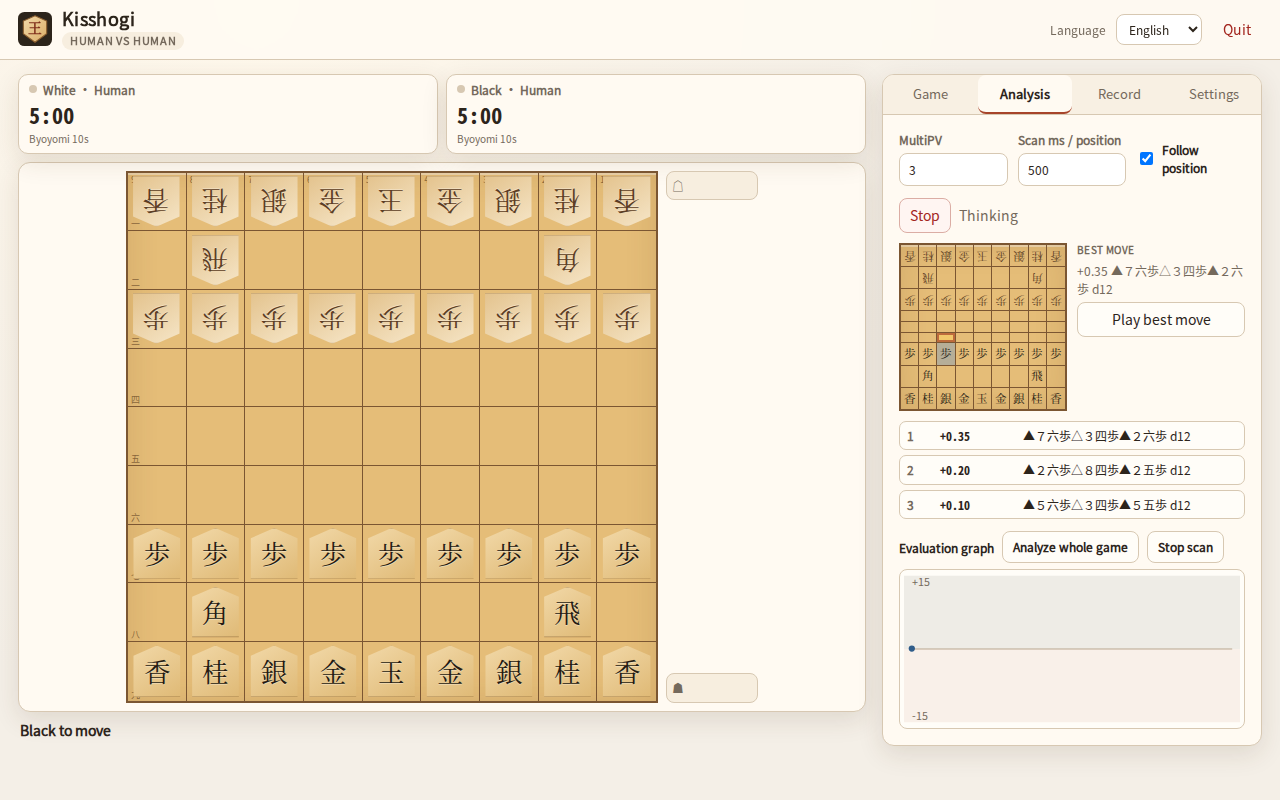
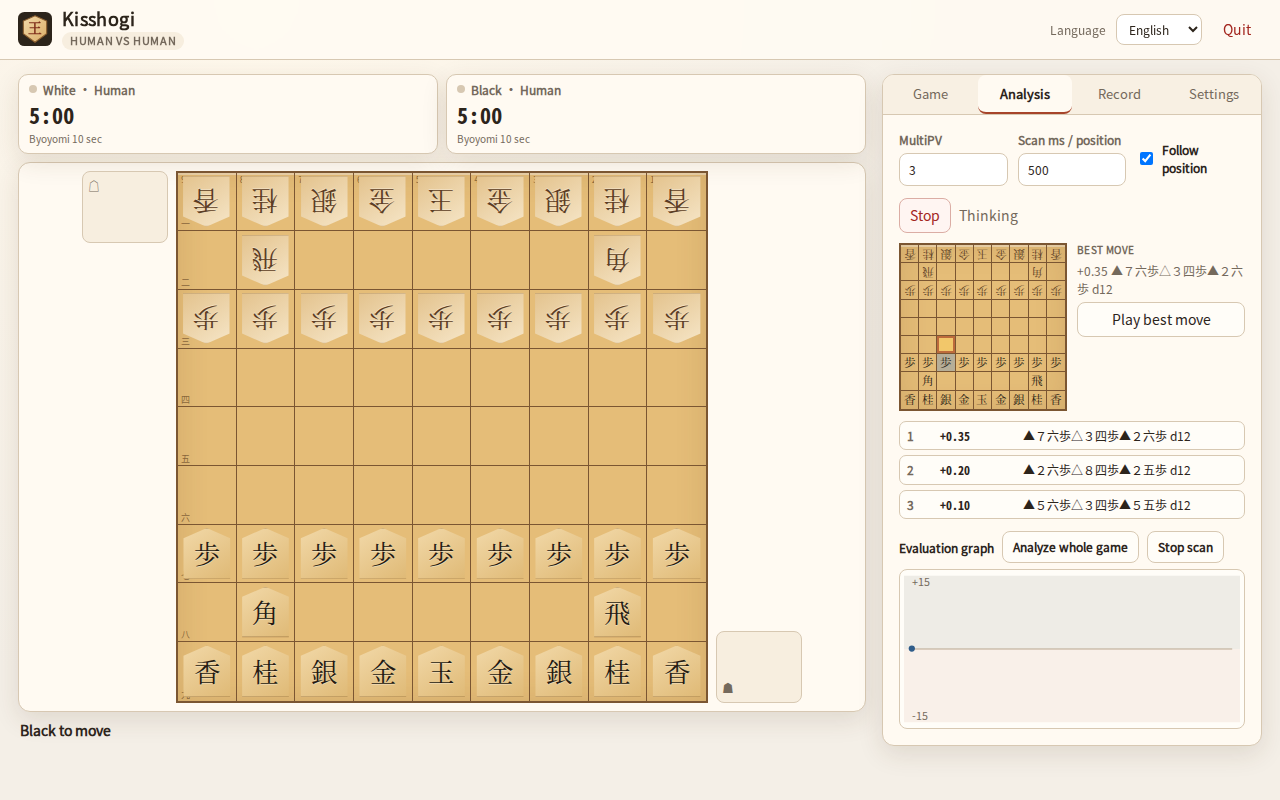
feat: side hand trays, stable mini board and native release bundle

Changed region(s): [[0.0938, 0.1875, 0.5938, 0.9062], [0.6875, 0.3125, 0.8438, 0.5]]

diff --git a/src/kisshogi/web/css/board.css b/src/kisshogi/web/css/board.css
@@ -16,19 +16,18 @@
 
 .board-area { background: var(--panel); border: 1px solid var(--line); border-radius: var(--radius); box-shadow: var(--shadow); padding: 8px; }
 .board-frame {
-  display: flex; align-items: stretch; justify-content: center; gap: 8px;
-  width: min(calc(var(--board-size) + 100px), 100%); margin: 0 auto;
+  display: flex; align-items: flex-start; justify-content: center; gap: 8px;
+  width: min(calc(var(--board-size) + 188px), 100%); margin: 0 auto;
 }
-.hand-stack {
-  flex: 0 0 92px; display: flex; flex-direction: column; justify-content: space-between;
-  gap: 8px; min-width: 0;
-}
-.hand-stack.flipped { flex-direction: column-reverse; }
 .hand-row {
-  display: flex; align-items: flex-start; align-content: flex-start; flex-wrap: wrap; gap: 4px;
+  flex: 0 0 86px; display: flex; align-items: flex-start; align-content: flex-start; flex-wrap: wrap; gap: 4px;
   padding: 5px; background: var(--surface-2); border: 1px solid var(--line); border-radius: 8px;
-  min-height: 0;
+  min-height: 72px; overflow: hidden;
 }
+.hand-white { order: 1; align-self: flex-start; align-content: flex-start; }
+.hand-black { order: 3; align-self: flex-end; align-content: flex-end; }
+.board-frame.flipped .hand-white { order: 3; align-self: flex-end; align-content: flex-end; }
+.board-frame.flipped .hand-black { order: 1; align-self: flex-start; align-content: flex-start; }
 .hand-label { width: 100%; font-size: 12px; color: var(--muted); }
 .hand-piece {
   display: inline-flex; align-items: baseline; gap: 2px; padding: 0 4px; border-radius: 5px;
@@ -42,7 +41,7 @@
 .hand-count { font-family: ui-monospace, monospace; font-size: 9px; color: var(--muted); }
 
 .board {
-  flex: 0 1 auto; width: var(--board-size); max-width: calc(100% - 100px);
+  flex: 0 1 auto; order: 2; width: var(--board-size); max-width: calc(100% - 188px);
   display: grid; grid-template-columns: repeat(9, 1fr); aspect-ratio: 1;
   border: 2px solid var(--board-line); background: var(--board);
   box-shadow: var(--board-inset);

diff --git a/src/kisshogi/web/css/panels.css b/src/kisshogi/web/css/panels.css
@@ -8,11 +8,12 @@
 
 .analysis-board-panel { display: flex; gap: 10px; align-items: flex-start; margin: 10px 0; }
 .mini-board {
-  flex: 0 0 168px; width: 168px; aspect-ratio: 1; display: grid; grid-template-columns: repeat(9, 1fr);
+  flex: 0 0 168px; width: 168px; max-width: 168px; aspect-ratio: 1; display: grid;
+  grid-template-columns: repeat(9, 1fr); grid-template-rows: repeat(9, 1fr);
   border: 2px solid var(--board-line); background: var(--board); box-shadow: var(--board-inset);
 }
 .mini-square {
-  position: relative; display: grid; place-items: center;
+  position: relative; display: grid; place-items: center; min-width: 0; min-height: 0;
   border-right: 1px solid var(--board-line); border-bottom: 1px solid var(--board-line);
 }
 .mini-square:nth-child(9n) { border-right: 0; }
@@ -102,8 +103,8 @@
   .time-head, .time-row { grid-template-columns: 44px 1fr 1fr 1fr 72px; }
   .button-grid { grid-template-columns: 1fr; }
   .board-frame { gap: 4px; }
-  .hand-stack { flex-basis: 70px; }
-  .board { max-width: calc(100% - 78px); }
-  .mini-board { flex-basis: 132px; width: 132px; }
+  .hand-row { flex-basis: 66px; min-height: 60px; }
+  .board { max-width: calc(100% - 140px); }
+  .mini-board { flex-basis: 132px; width: 132px; max-width: 132px; }
   .analysis-board-panel { gap: 8px; }
 }

diff --git a/src/kisshogi/web/js/board-view.js b/src/kisshogi/web/js/board-view.js
@@ -46,11 +46,11 @@ export function squareName(square) {
 }
 
 export class BoardView {
-  constructor({ board, blackHand, whiteHand, handStack, coordinates }, { onSquare, onHand }) {
+  constructor({ board, blackHand, whiteHand, boardFrame, coordinates }, { onSquare, onHand }) {
     this.board = board;
     this.blackHand = blackHand;
     this.whiteHand = whiteHand;
-    this.handStack = handStack;
+    this.boardFrame = boardFrame;
     this.coordinates = coordinates;
     this.onSquare = onSquare;
     this.onHand = onHand;
@@ -135,7 +135,7 @@ export class BoardView {
     this._renderHand(this.blackHand, position.hand(Color.BLACK), Color.BLACK, flip, state);
     this._renderHand(this.whiteHand, position.hand(Color.WHITE), Color.WHITE, flip, state);
     this.board.classList.toggle("flipped", flip);
-    this.handStack?.classList.toggle("flipped", flip);
+    this.boardFrame?.classList.toggle("flipped", flip);
   }
 
   _renderHand(el, hand, color, flip, state) {

diff --git a/src/kisshogi/web/index.html b/src/kisshogi/web/index.html
@@ -43,12 +43,10 @@
       </div>
 
       <div class="board-area">
-        <div class="board-frame">
+        <div id="boardFrame" class="board-frame">
+          <div id="whiteHand" class="hand-row hand-white" aria-label="White hand"></div>
           <div id="board" class="board" role="grid" aria-label="Shogi board"></div>
-          <div id="handStack" class="hand-stack">
-            <div id="whiteHand" class="hand-row hand-white" aria-label="White hand"></div>
-            <div id="blackHand" class="hand-row hand-black" aria-label="Black hand"></div>
-          </div>
+          <div id="blackHand" class="hand-row hand-black" aria-label="Black hand"></div>
         </div>
       </div>
 

diff --git a/src/kisshogi/web/js/main.js b/src/kisshogi/web/js/main.js
@@ -444,7 +444,7 @@ function setupBoard() {
       board: $("#board"),
       blackHand: $("#blackHand"),
       whiteHand: $("#whiteHand"),
-      handStack: $("#handStack"),
+      boardFrame: $("#boardFrame"),
       coordinates: config.ui?.coordinates,
     },
     {

diff --git a/scripts/ui_check.py b/scripts/ui_check.py
@@ -213,10 +213,12 @@ def layout_metrics(page) -> dict:
     return page.evaluate(
         """() => {
             const board = document.querySelector('#board').getBoundingClientRect();
-            const hands = document.querySelector('#handStack').getBoundingClientRect();
+            const white = document.querySelector('#whiteHand').getBoundingClientRect();
+            const black = document.querySelector('#blackHand').getBoundingClientRect();
             return {
-                board: {x: board.x, y: board.y, width: board.width, height: board.height},
-                hands: {x: hands.x, y: hands.y, width: hands.width, height: hands.height},
+                board: {x: board.x, y: board.y, right: board.right, bottom: board.bottom, width: board.width, height: board.height},
+                white: {x: white.x, y: white.y, right: white.right, bottom: white.bottom},
+                black: {x: black.x, y: black.y, right: black.right, bottom: black.bottom},
                 inner: window.innerHeight,
             };
         }"""
@@ -238,8 +240,21 @@ def check_initial_board(browser) -> None:
                 page.wait_for_timeout(120)
                 no_page_scroll(page)
                 metrics = layout_metrics(page)
-                assert metrics["board"]["y"] + metrics["board"]["height"] <= metrics["inner"] + 1, metrics
-                assert metrics["hands"]["x"] >= metrics["board"]["x"] + metrics["board"]["width"] - 1, metrics
+                assert metrics["board"]["bottom"] <= metrics["inner"] + 1, metrics
+                # White (top player) sits on the left, black (bottom player) on
+                # the right: each hand tray is on its own player's right side.
+                assert metrics["white"]["right"] <= metrics["board"]["x"] + 1, metrics
+                assert metrics["black"]["x"] >= metrics["board"]["right"] - 1, metrics
+                assert metrics["white"]["y"] < metrics["black"]["y"], metrics
+
+            page.click("#flipBtn")
+            page.wait_for_timeout(150)
+            flipped = layout_metrics(page)
+            assert flipped["black"]["right"] <= flipped["board"]["x"] + 1, flipped
+            assert flipped["white"]["x"] >= flipped["board"]["right"] - 1, flipped
+            assert flipped["black"]["y"] < flipped["white"]["y"], flipped
+            page.click("#flipBtn")
+            page.wait_for_timeout(150)
 
             clip = page.evaluate("getComputedStyle(document.querySelector('.piece')).clipPath")
             assert clip.count(",") == 4, clip  # five vertices, not a hexagon

diff --git a/packaging/hooks/hook-gi.repository.WebKit2.py b/packaging/hooks/hook-gi.repository.WebKit2.py
@@ -1,0 +1,19 @@
+"""Collect the WebKit2 typelib for pywebview without bundling libwebkit2gtk.
+
+The release binary relies on the system WebKitGTK 4.1 shared library (the same
+dependency a source install needs).  Bundling it produced a 400+ MB onefile and
+would not be portable across distributions.
+"""
+
+from PyInstaller.utils.hooks.gi import GiModuleInfo
+
+
+def hook(hook_api):
+    info = GiModuleInfo("WebKit2", "4.1", hook_api=hook_api)
+    if not info.available:
+        info = GiModuleInfo("WebKit2", "4.0", hook_api=hook_api)
+    if not info.available:
+        return
+    _binaries, datas, hiddenimports = info.collect_typelib_data()
+    hook_api.add_datas(datas)
+    hook_api.add_imports(*hiddenimports)

diff --git a/src/kisshogi/__init__.py b/src/kisshogi/__init__.py
@@ -1,3 +1,3 @@
 """Kisshogi - a small KISS shogi GUI."""
 
-__version__ = "0.1.0"
+__version__ = "0.1.1"

diff --git a/docs/RELEASE.md b/docs/RELEASE.md
@@ -4,7 +4,8 @@
 
 - Target: `foydh/kisshogi`.
 - Default branch: `main`.
-- Tag for the first release: `v0.1.0`.
+- First release: `v0.1.0` (browser fallback).
+- Current release: `v0.1.1` (native window first, browser fallback).
 
 ## Git setup (local only)
 
@@ -22,8 +23,8 @@ git push -u origin main
 ## Release
 
 ```bash
-git tag -a v0.1.0 -m "Kisshogi 0.1.0"
-git push origin v0.1.0
+git tag -a v0.1.1 -m "Kisshogi 0.1.1"
+git push origin v0.1.1
 ```
 
 `.github/workflows/release.yml` verifies the tag, builds wheel/sdist, builds
@@ -32,30 +33,23 @@ publishes a GitHub release.
 
 ## Status
 
-`v0.1.0` was published on 2026-11-08. Assets: wheel, sdist,
-`kisshogi-v0.1.0-linux-x86_64.tar.gz`, `kisshogi-v0.1.0-windows-x86_64.zip`,
-and `SHA256SUMS.txt`. The released Linux binary was downloaded and
-smoke-tested; the Windows zip was inspected (it contains `kisshogi.exe` and
-docs only).
+- `v0.1.0` was published on 2026-11-08 with browser-fallback binaries.
+- `v0.1.1` is the native-first release. The Linux artifact is built on
+  Ubuntu 22.04 with system PyGObject/WebKitGTK and is about 48 MB; the Windows
+  artifact includes pywebview/pythonnet and uses the WebView2 runtime.
 
-## Post-0.1.0
+## Packaging decision (0.1.1)
 
-`main` contains the pause/analysis/theme/layout improvements and the native
-software-OpenGL launcher fix. Bump the version and tag `v0.1.1` when a new
-release is wanted; the release workflow is unchanged.
-
-## Packaging decision (0.1.0)
-
-- The PyInstaller spec excludes pywebview/GI/PIL to keep one cross-platform
-  binary small and portable. Release binaries therefore use the browser
-  fallback; this is the chosen 0.1.0 behavior, not a build accident.
-- A native window is available when installing from source with the `native`
-  extra and the platform dependencies.
-- A separate **native Windows bundle** is the best candidate for the first
-  native release. It needs WebView2 plus pythonnet/clr packaging and must be
-  built and tested on Windows; adding it blind to the current workflow would
-  not be verifiable from this environment.
-- Windows packaging has not been executed in this environment; CI will be the
-  first Windows build.
+- The PyInstaller spec includes pywebview and (on Linux) PyGObject/WebKit2
+  typelib support. Both binaries try the native window first and fall back to
+  the browser if it cannot start.
+- **Linux**: the binary bundles the GI/Gtk runtime pieces but deliberately uses
+  the system `libwebkit2gtk` shared libraries. Bundling WebKitGTK produced a
+  400+ MB onefile tied to one distribution's library set. A source install and
+  the release binary therefore both need PyGObject + WebKitGTK 4.1.
+- The launcher forces software OpenGL on Linux (`LIBGL_ALWAYS_SOFTWARE=1`), so
+  VMs and remote desktops work without a GPU.
+- **Windows**: pywebview + pythonnet are bundled; the WebView2 runtime is
+  required (present on most Windows 10/11 systems).
 - No code signing; Windows SmartScreen may warn.
 - No engine, config, log, or absolute path is included in artifacts.

diff --git a/docs/PROGRESS.md b/docs/PROGRESS.md
@@ -36,8 +36,9 @@ restart, batch games with Ponder, and the Quit flow.
   jishogi adjudication, max moves.
 - Board/hands UI, promotion dialog, clocks, status, coordinates.
 - Pause/resume freezes the clocks and engine turns without discarding the game.
-- Traditional right-side hand trays; five-sided piece shape; board sized to fit
-  the viewport at 1280x800/1366x768/1600x900 without page scrolling.
+- Hand trays on each player's right side (white top-left, black bottom-right);
+  five-sided piece shape; board sized to fit the viewport at
+  1280x800/1366x768/1600x900 without page scrolling.
 - Four themes (classic, dark, green, paper), persisted in the local config.
 - The settings panel shows the local config file path and can copy it.
 - Quit shows a clean stopped overlay instead of a false "server not responding"
@@ -52,10 +53,12 @@ restart, batch games with Ponder, and the Quit flow.
   sections were removed or moved to `docs/`.
 - Batch EvE: color swap, start SFEN cycling, summary, CSV.
 - i18n en/zh-CN/ja; original CSS art; bundled Noto CJK subsets.
-- CI workflows and PyInstaller spec; 8.2 MB Linux onefile smoke-tested.
+- CI workflows and PyInstaller spec.
 - GitHub CI is green on Python 3.10/3.12 for Ubuntu and Windows, JavaScript, and
-  wheel/sdist. `v0.1.0` is published with wheel, sdist, Linux tar.gz, Windows
-  zip, and SHA256SUMS.
+  wheel/sdist. `v0.1.0` was published with browser-fallback binaries.
+- The release spec now bundles pywebview and prefers the native window. The
+  Linux onefile is ~48 MB, uses the system WebKitGTK shared libraries, and was
+  built and launched natively here; the browser remains the fallback.
 - Screenshots in `docs/`.
 - `window.__kisshogiDebug` is opt-in via the `?debug` query string.
 
@@ -80,15 +83,13 @@ restart, batch games with Ponder, and the Quit flow.
 
 ## Known gaps / next work
 
-1. **Native release packaging**: the 0.1.0 binaries stay browser-fallback (see
-   `RELEASE.md`). A separate Windows native bundle is the best candidate but
-   needs WebView2/pythonnet packaging and testing on Windows.
-2. **Native pywebview** window close should still be checked on a real
+1. **Native pywebview** window close should still be checked on a real
    Linux/Windows desktop.
-3. **Windows binary** is built by CI and packaged, but has not been launched on
-   Windows here.
-4. **Release**: `v0.1.0` is published; `main` now contains the UI improvements
-   described above, so a `v0.1.1` tag/release is pending if desired.
+2. **Windows binary** is built by CI and packaged with pywebview/pythonnet, but
+   has not been launched on Windows here.
+3. **Release**: `v0.1.1` packages the native-first binaries; `v0.1.0` remains
+   the browser-fallback release. Linux needs system PyGObject + WebKitGTK 4.1;
+   Windows needs the WebView2 runtime.
 
 ## Handoff
 

diff --git a/README.ja.md b/README.ja.md
@@ -17,7 +17,7 @@ Kisshogi は KISS 方針の小さな将棋 GUI です。ローカル対局と US
 - エンジン解析（MultiPV、リアルタイム info、全局解析、SVG 評価値グラフ）。
   停止後も最後の結果を保持し、ミニ盤で最善手を表示してそのまま盤面に指せます。
 - 対局の一時停止／再開。時計は止まります。
-- 伝統的な右側の駒台、4 種類のテーマ、画面に合わせた盤面サイズ。
+- 白は左上、黒は右下に駒台を置く伝統的な配置。4 種類のテーマ、画面に合わせた盤面サイズ。
 - 設定画面にローカル設定ファイルのパスを表示。
 - KIF / KI2 / CSA 読み込み、KIF / KI2 / CSA / SFEN 出力（UTF-8 / Shift_JIS）。
 - 局面編集（盤面、持ち駒、手番、SFEN）。
@@ -27,7 +27,7 @@ Kisshogi は KISS 方針の小さな将棋 GUI です。ローカル対局と US
 - 最大手数を設定可能（0 = 無制限）。
 - pywebview が使える場合はネイティブウィンドウ、失敗時はブラウザへフォールバック。
 
-## インストール
+## ソースからインストール
 
 必ず仮想環境を使い、システム Python に pip しないでください。
 
@@ -65,6 +65,9 @@ kisshogi
 `--native` は強制指定で、失敗時は依存関係の案内を表示します。
 Linux のネイティブウィンドウは既定でソフトウェア OpenGL を使うため、VM や
 リモートデスクトップでも動作します。`LIBGL_ALWAYS_SOFTWARE=0` で無効にできます。
+
+GitHub Release のバイナリは pywebview を同梱し、ネイティブウィンドウを優先します。
+Linux ではシステムの PyGObject / WebKitGTK 4.1、Windows では WebView2 を使用します。
 
 ## 起動と終了
 

diff --git a/README.zh-CN.md b/README.zh-CN.md
@@ -15,7 +15,7 @@ Kisshogi 是一款遵循 KISS 原则的小型将棋 GUI，面向本地对局与 
 - 引擎分析（MultiPV、实时 info、整局解析、SVG 评估曲线）；停止后保留最后结果，
   小棋盘显示最佳着法，并可直接走到主棋盘。
 - 暂停/恢复对局，计时不走。
-- 传统右侧驹台、四种主题、棋盘大小自适应。
+- 白方驹台在左上、黑方在右下的传统布局；四种主题；棋盘大小自适应。
 - 设置中显示本机配置文件路径。
 - KIF/KI2/CSA 读取；KIF/KI2/CSA/SFEN 导出；支持 UTF-8 与 Shift_JIS。
 - 局面编辑器（棋盘、持驹、手番、SFEN）。
@@ -25,7 +25,7 @@ Kisshogi 是一款遵循 KISS 原则的小型将棋 GUI，面向本地对局与 
 - 最大手数可配置（0 = 不限）。
 - 默认原生窗口（pywebview 可用时），失败自动回退浏览器。
 
-## 安装
+## 从源码安装
 
 请始终使用虚拟环境，不要用系统 Python 执行 pip。
 
@@ -62,6 +62,9 @@ kisshogi
 原生窗口不可用时自动回退浏览器；`--native` 强制原生，失败会给出安装提示。
 Linux 下原生窗口默认使用软件 OpenGL，以便在虚拟机和远程桌面上也能运行；可设置
 `LIBGL_ALWAYS_SOFTWARE=0` 关闭。
+
+GitHub Release 的二进制现在包含 pywebview，会优先打开原生窗口；Linux 使用系统
+PyGObject/WebKitGTK 4.1，Windows 使用 WebView2 运行时。
 
 ## 运行与退出
 
